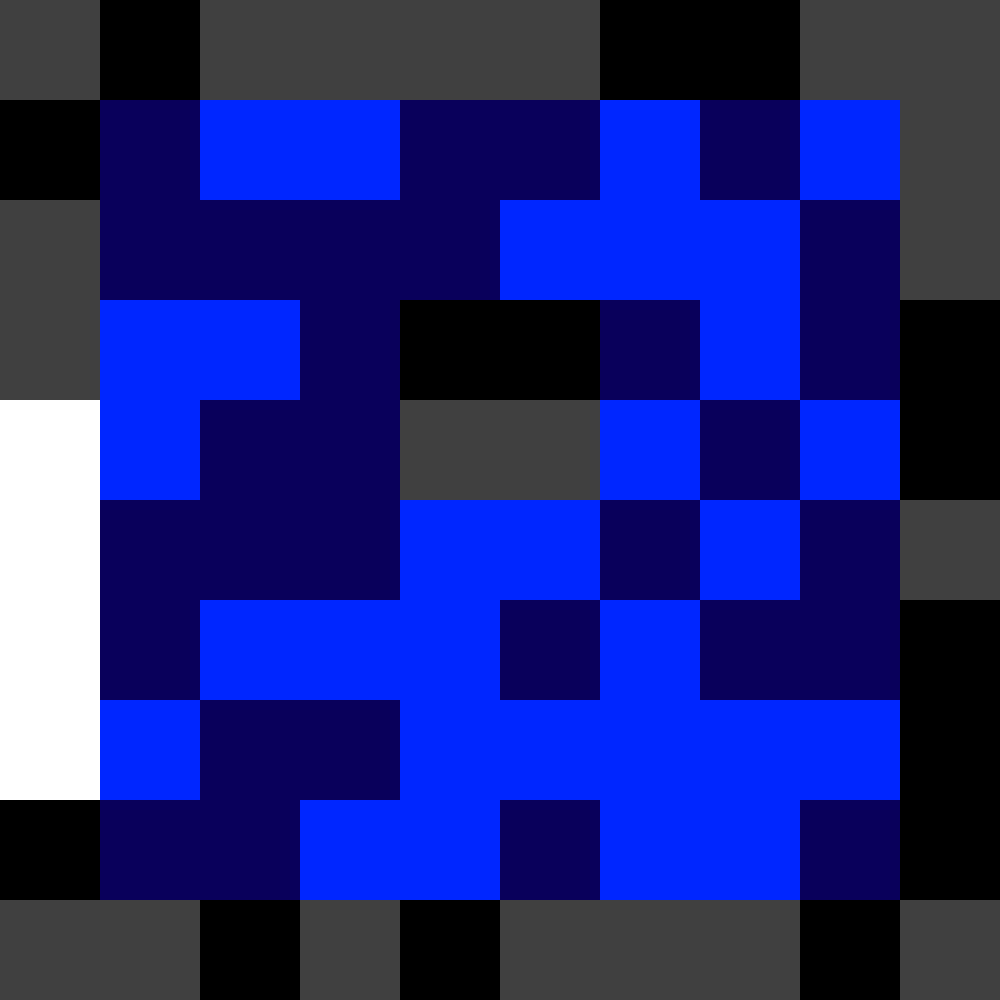
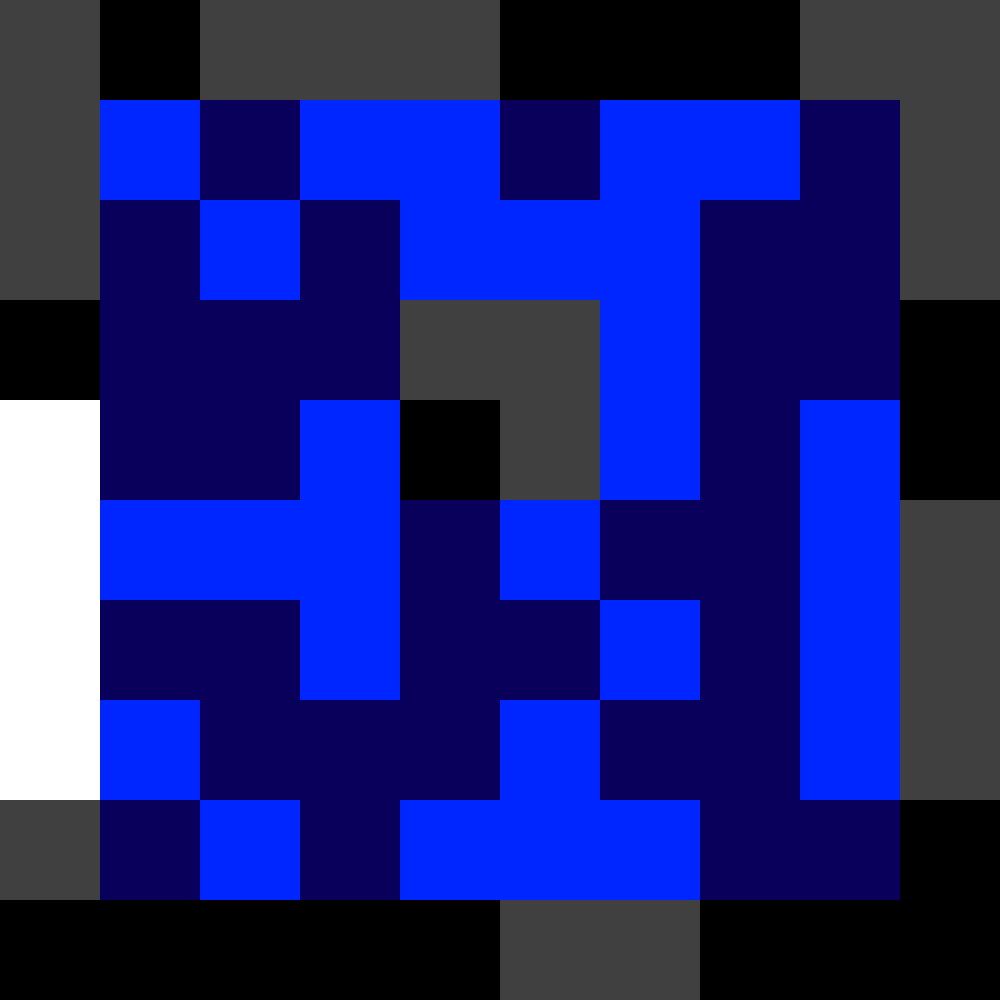
HellHound enemy

diff --git a/core/src/gameObjects/HellHound.java b/core/src/gameObjects/HellHound.java
@@ -1,0 +1,26 @@
+package gameObjects;
+
+/*
+ * Example child of enemyObject. This is probably not gonna make it to the final cut, 
+ * but you should at least see how enemies are done.
+ */
+public class HellHound extends EnemyObject
+{
+	public static final int SIZE = 25;
+	public static final String TEXTURE = "hellHound";
+	public static final double SPEED = 100;
+	public static final int DAMAGE = 5;
+	public static final int MAX_RANGE = 40;
+	public static final int MIN_RANGE = 30;
+	public static final int ALERT_DISTANCE = 400;
+	public static final int HEALTH = 75;
+	
+	
+	
+	
+	public HellHound(int xin, int yin, Building owner)
+	{
+		super(xin, yin, SIZE, SIZE, TEXTURE, SPEED, DAMAGE, MAX_RANGE,MIN_RANGE, ALERT_DISTANCE, HEALTH, owner);
+	}
+
+}

diff --git a/core/src/graphics/ImageLibrary.java b/core/src/graphics/ImageLibrary.java
@@ -131,6 +131,10 @@ public class ImageLibrary
 			animations.put("attacking", new Animation("res/enemy/zombie/zombieAttackAnim.png", 10, 10, false));
 			animationSet.put("zombie", animations);
 
+			animations = new HashMap<String, Animation>();
+			animations.put("default", new Animation("res/enemy/hellHound/hellHoundIdleAnim.png", 50, 10, true));
+			animations.put("attacking", new Animation("res/enemy/hellHound/hellHoundAttackAnim.png", 10, 10, false));
+			animationSet.put("hellHound", animations);
 			
 		}
 		catch (Exception e)

diff --git a/core/src/map/Map.java b/core/src/map/Map.java
@@ -7,6 +7,7 @@ import gameObjects.Building;
 import gameObjects.ClearDoor;
 import gameObjects.FamineBoss;
 import gameObjects.Goblin;
+import gameObjects.HellHound;
 import gameObjects.Zombie;
 import graphics.Canvas.LayerType;
 import graphics.GraphicComponent;
@@ -33,6 +34,7 @@ public class Map
 		spawnTypes.put("holyWater", HolyWater.class);
 		spawnTypes.put("clearDoor", ClearDoor.class);
 		spawnTypes.put("famineBoss", FamineBoss.class);
+		spawnTypes.put("hellHound", HellHound.class);
 		
 
 	}
